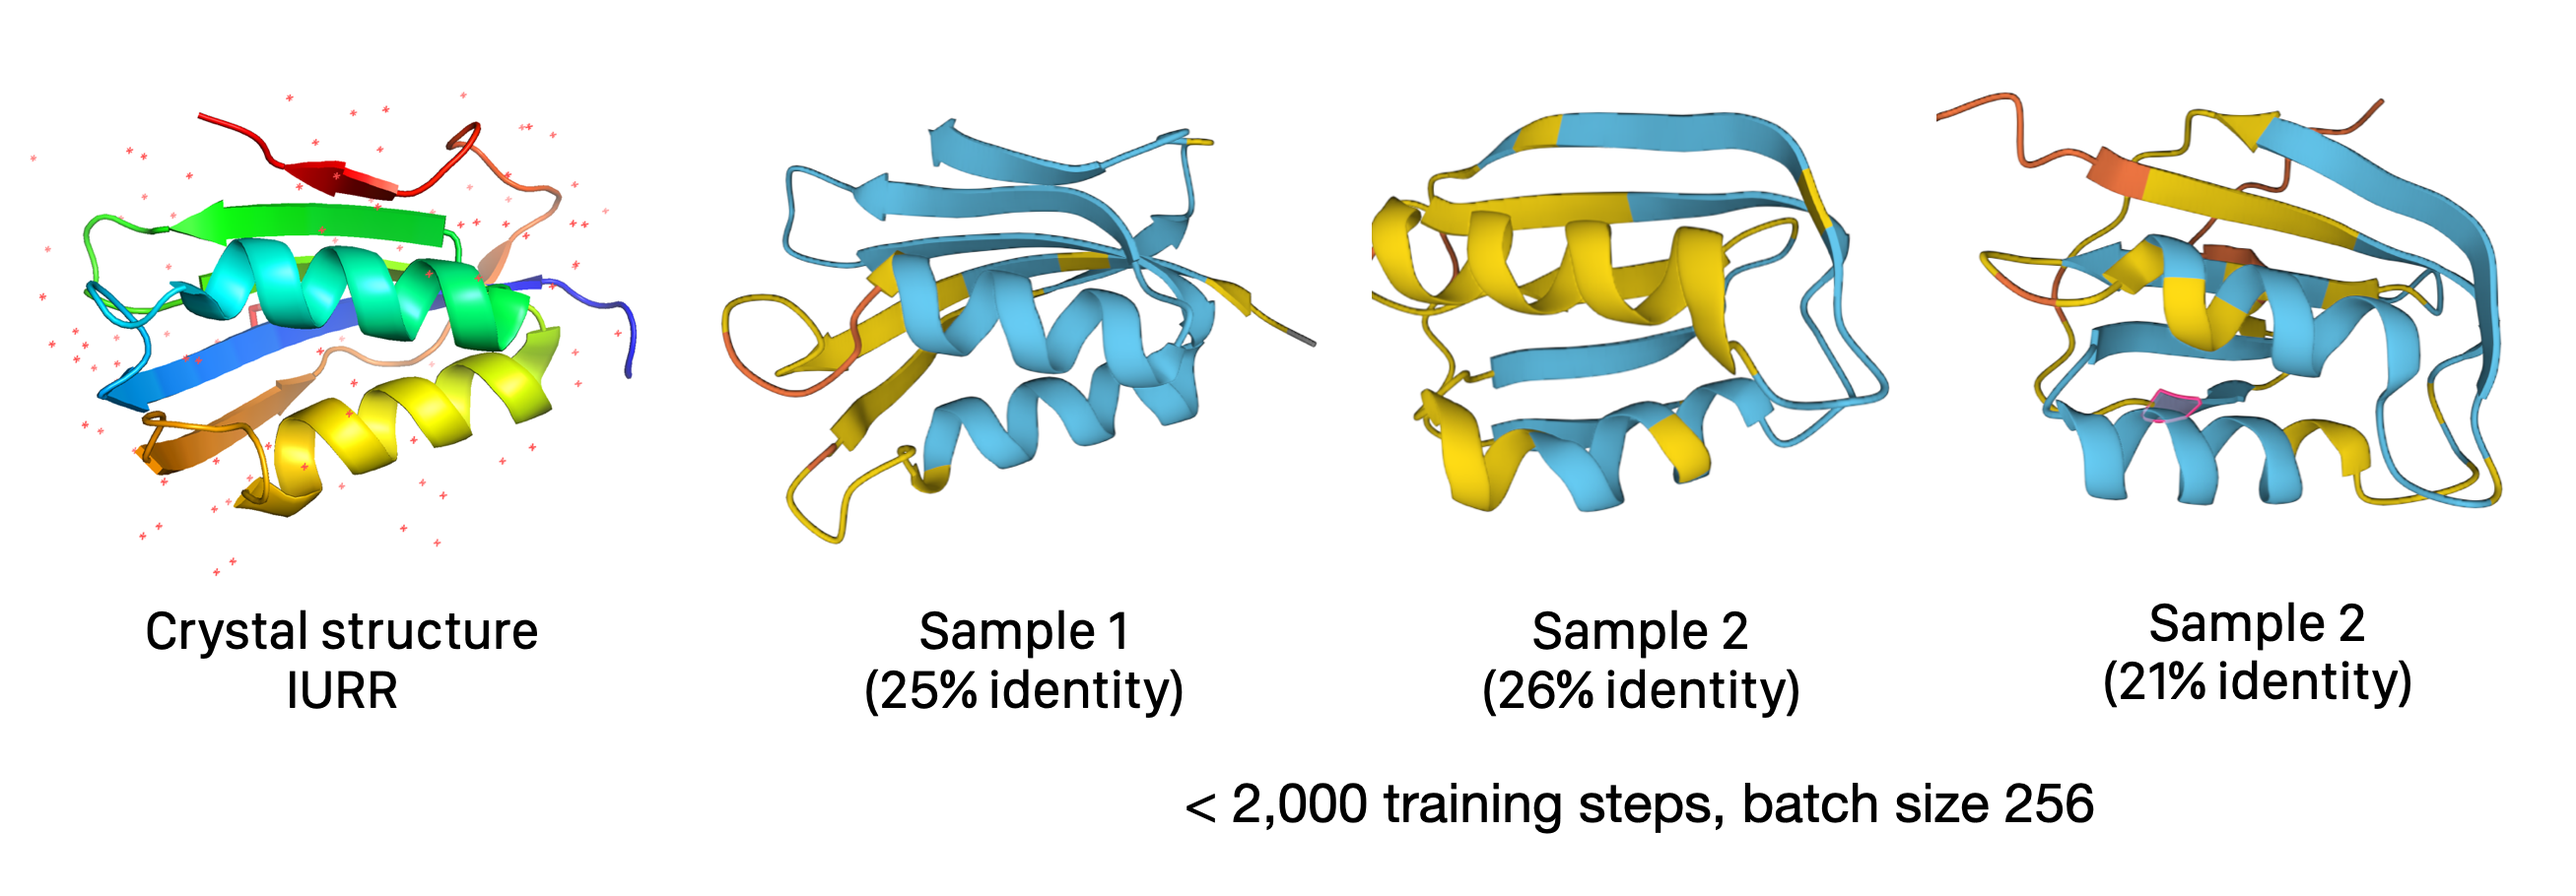
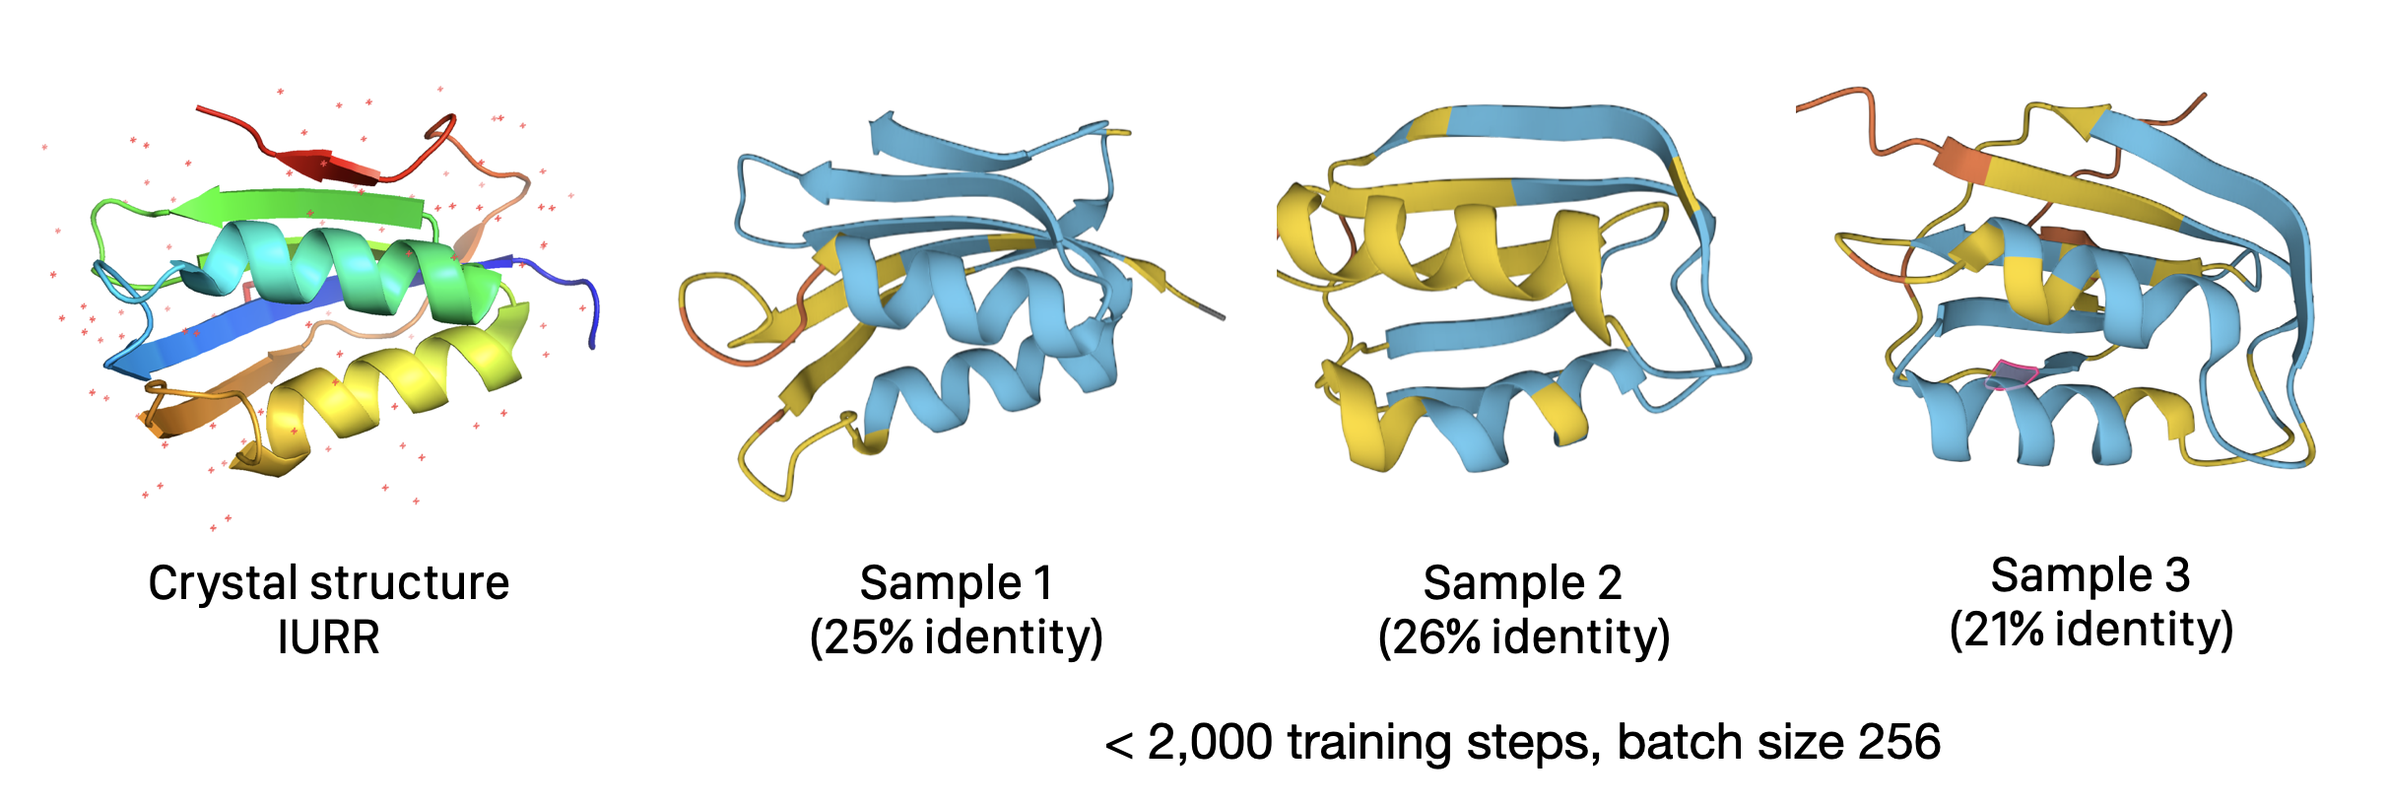
Update readme with more details on UniRef50 training

diff --git a/README.md b/README.md
@@ -1,20 +1,20 @@
 # Experiments using score entropy discrete diffusion for protein design 
 
-- This code is a fork of and wholly based on [Aaron Lou's implementation of score entropy discrete diffusion](https://github.com/louaaron/Score-Entropy-Discrete-Diffusion), which is fully described in his research paper (which was voted ICML 2024 Best Paper), "Discrete Diffusion Modeling by Estimating the Ratios of the Data Distribution" ([https://arxiv.org/abs/2310.16834](https://arxiv.org/abs/2310.16834))
-- The goal of this repository is to evaluate the usefulness of score entropy discrete diffusion for understanding protein sequences
-- We hope to be able to use trained models to design new proteins with desired properties 
+This code is a fork of and wholly based on [Aaron Lou's implementation of score entropy discrete diffusion](https://github.com/louaaron/Score-Entropy-Discrete-Diffusion), which is fully described in the research paper (which was voted ICML 2024 Best Paper), "Discrete Diffusion Modeling by Estimating the Ratios of the Data Distribution" by Aaron Lou, Chenlin Meng, and Stefano Ermon ([https://arxiv.org/abs/2310.16834](https://arxiv.org/abs/2310.16834))
+
+The goal of this repository is to evaluate the usefulness of score entropy discrete diffusion for understanding protein sequences. In particular, we hope to evaluate SEDD models trained on UniRef50 compared with existing autogregressive protein transformer models such as ProGen, RITA, and ProtT5
 
 
 ## Resources  
 
 - Original implementation by Aaron Lou https://github.com/louaaron/Score-Entropy-Discrete-Diffusion 
 - Original readme https://github.com/louaaron/Score-Entropy-Discrete-Diffusion 
-- Paper link https://arxiv.org/abs/2310.16834
+- "Discrete Diffusion Modeling by Estimating the Ratios of the Data Distribution" by Aaron Lou, Chenlin Meng, and Stefano Ermon https://arxiv.org/abs/2310.16834
 
 
 ## Experiments 
 
-For the computational setup for these experiments, I'm using a V100 node from [Lambda Labs](https://lambdalabs.com) which costs about $1.25 an hour. After launching A100 instance from Lambda, perform the following updates and installs: 
+For the computational setup for these experiments, I'm using a A100 instance from [Lambda Labs](https://lambdalabs.com) which costs about $1.25 an hour. After launching A100 instance from Lambda, I perform the following updates and installs to update the Torch and CUDA installs to the latest versions, then:
 
 ```
 sudo apt-get update && sudo apt-get dist-upgrade
@@ -28,14 +28,13 @@ Then to run training, edit the config or provide command line options:
 python train.py 
 ```
 
-### Goals 
+Changes from Aaron Lou's original implementation that are needed for modeling protein sequence data are not significant: 
 
-Changes from Aaron Lou's original implementation that are needed for modeling proteins: 
+1. In the training script `run_train.py` and the data loading implementation in `data.py`, we update the existing tokenizer for sampling to one that uses the amino acid vocabulary (plus special tokens)
 
-1. in `run_train.py`, we update the existing tokenizer for sampling to one that works for proteins 
-2. in `data.py` we update the tokenizer used when creating datasets 
-3. we need a different method of evaluating generative perplexity and other useful metrics 
+However, in order for us to evaluate these models, we'll need to think more carefully about downstream use cases. 
 
+1. In the training script we update the evaluations to be protein-specific (comparing against a protein model in generation perplexity and evaluating mutational effect scores using an experimental dataset)
 
 ### Using the existing GPT2 tokenizer
 
@@ -103,15 +102,22 @@ After training the model under several configurations on the AcyP dataset (which
 
 The next step would be to train some SEDD models of different sizes on the UniRef50 dataset and compare to the performance of autogregressive models on the same data. Some good models to compare against: ProGen, RITA, ProtT5. Some model sizes to try: 10M, 100M, 1B, 10B params. 
 
-I adapted the existing data loading code to load the UniRef50 dataset, but haven't trained it get due to the computational cost. It takes about 4 hours to preprocess the dataset using a V100, before training begins. 
+I adapted the existing data loading code to load the UniRef50 dataset, but haven't trained it fully yet, due to the computational cost. From my experiments, it takes about 4 hours to preprocess the dataset using an A100, before training begins. Once training begins, for the tiny model on short sequences of length 128, we get about 1,000 steps of batch size 128 per minute on the A100, which is about 15 million tokens per minute. UniRef50 contains around 40 million sequences with an average length of 256, for a total of 10 billion tokens. I approximate this will take over 10 hours to train on the A100 (for the tiny model). 
+
+I've provided the code to load UniRef50 in this repo:
 
 ```python 
 elif name == "uniref50":
-        dataset = load_dataset("agemagician/uniref50", cache_dir=cache_dir)
+    dataset = load_dataset("agemagician/uniref50", cache_dir=cache_dir)
 ```
 
-Next steps: 
+You can train on UniRef50 by providing the dataset name "uniref50" in the Hydra config. 
+
+Next steps (2024-10-7): 
 
 - [ ] Obtain funding to train the model on the UniRef50 dataset
-- [ ] Train model series on the UniRef50 dataset and compare against ProGen, RITA, and ProtT5
-- [ ] Publish results 
+- [ ] Train model param grid (model size and layers) on the UniRef50 dataset and compare against ProGen, RITA, and ProtT5 on evaluation metrics  
+
+Errata: 
+
+- In the figures, Sample 3 is labeled "Sample 2" 
